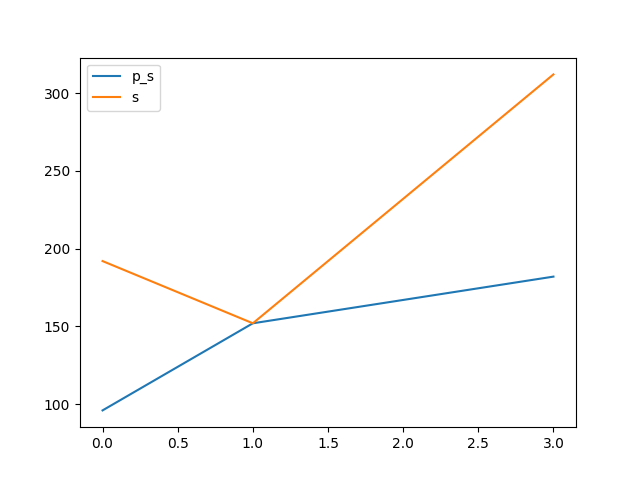
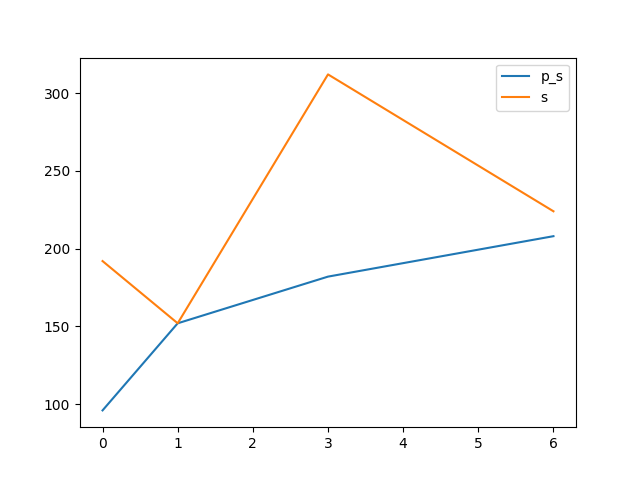
0x0006

diff --git a/benchmark.md b/benchmark.md
@@ -8,16 +8,18 @@
 
 [INFO] Synthesising NPN Class=2 TruthTable:0x0003 pexact:182 r=4 exact:312 r=4 time=0.16min 
 
+[INFO] Synthesising NPN Class=3 TruthTable:0x0006 pexact:208 r=4 exact:224 r=3 time=0.29min 
+
 ```mermaid
 xychart-beta
     title "Comparison powertwoexact twoexact"
-    x-axis [0, 1, 3]
+    x-axis [0, 1, 3, 6]
     y-axis "Switching Activity" 0-->312
-    line [96, 152, 182]
-    line [192, 152, 312]
-    line [143.33333333333334, 143.33333333333334, 143.33333333333334]
-    line [218.66666666666666, 218.66666666666666, 218.66666666666666]
-    bar [80, 60, 80]
-    bar [80, 60, 80]
+    line [96, 152, 182, 208]
+    line [192, 152, 312, 224]
+    line [159.5, 159.5, 159.5, 159.5]
+    line [220.0, 220.0, 220.0, 220.0]
+    bar [80, 60, 80, 80]
+    bar [80, 60, 80, 60]
 ```
 
